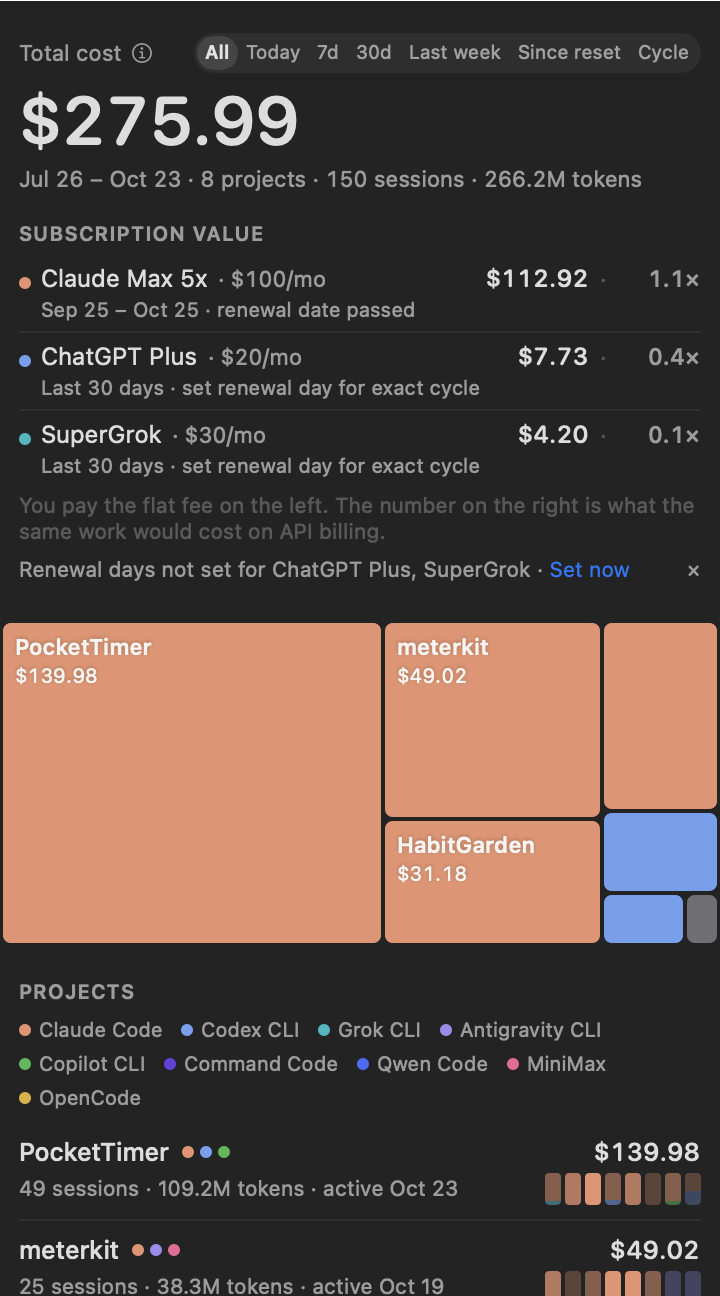
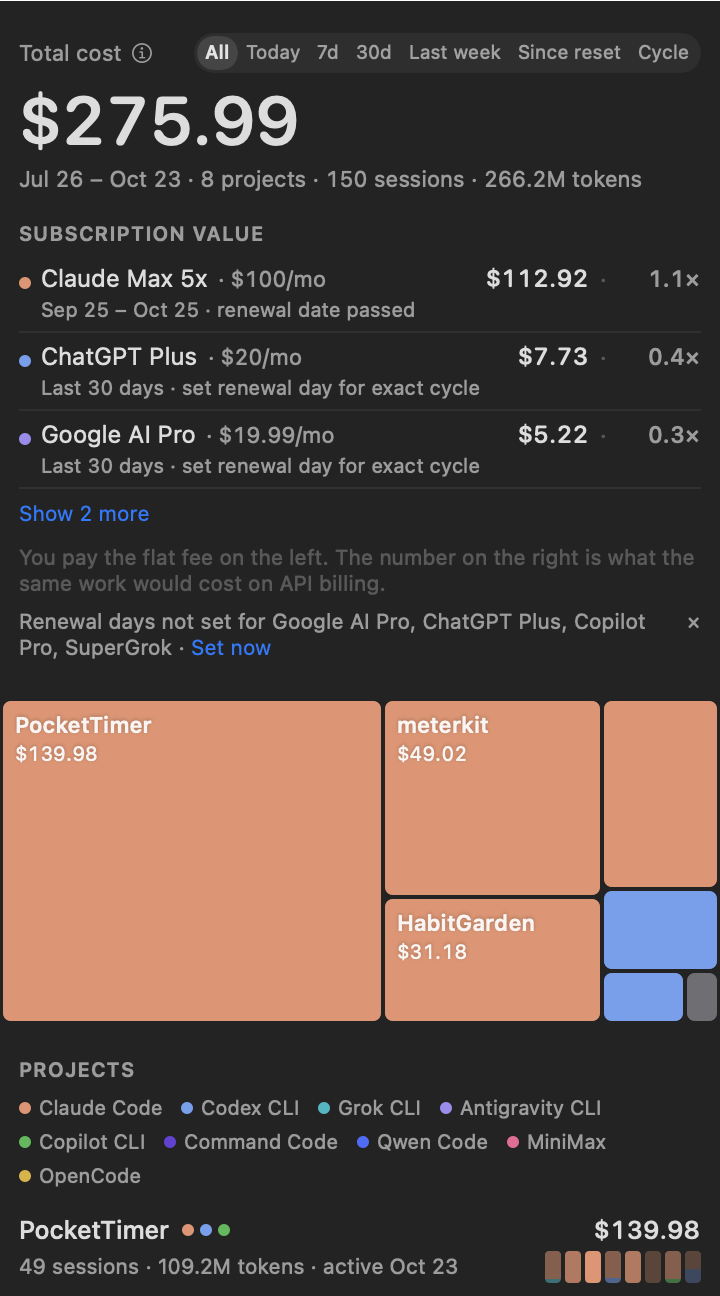
docs: README and screenshots for 0.3.3

diff --git a/ui/Tests/KanjoTests/SubscriptionTests.swift b/ui/Tests/KanjoTests/SubscriptionTests.swift
@@ -273,7 +273,7 @@ final class SubscriptionTests: KanjoTestCase {
         let filtered = RangeEngine.filtered(r, range: RangeEngine.spec(.billingCycle, report: r, now: now)) {
             dominantAgent($0.byAgent)?.agent ?? $0.byAgent.first?.agent ?? "unknown"
         }
-        for agent in ["claude", "codex", "grok"] {
+        for agent in ["claude", "codex", "grok", "antigravity", "copilot"] {
             let fromProjects = filtered.projects.reduce(0.0) { acc, p in
                 acc + (p.byAgent.first { $0.agent == agent }?.cost ?? 0)
             }
@@ -283,11 +283,11 @@ final class SubscriptionTests: KanjoTestCase {
             XCTAssertEqual(usage.total(for: agent), fromProjects + fromBuckets, accuracy: 0.01, agent)
             XCTAssertGreaterThan(usage.total(for: agent), 0, agent)
         }
-        XCTAssertEqual(usage.total(for: "antigravity"), 0)
+        XCTAssertEqual(usage.total(for: "qwen"), 0)
 
         let rows = SubscriptionValue.rows(of: r, now: now)
         XCTAssertEqual(rows.map(\.agent), rows.sorted { $0.usage > $1.usage }.map(\.agent))
-        XCTAssertEqual(Set(rows.map(\.agent)), ["claude", "codex", "grok"])
+        XCTAssertEqual(Set(rows.map(\.agent)), ["claude", "codex", "grok", "antigravity", "copilot"])
         for row in rows {
             let price = r.subscriptions?[row.agent]?.monthlyPriceUsd
             XCTAssertEqual(row.multiplier, SubscriptionValue.multiplier(usage: row.usage, monthlyPriceUsd: price))

diff --git a/ui/Sources/Kanjo/Views/OverviewView.swift b/ui/Sources/Kanjo/Views/OverviewView.swift
@@ -397,7 +397,8 @@ private struct SubscriptionValueCard: View {
         let defaultRows = SubscriptionValue.rows(of: report)
         let order = SubscriptionOrder.parse(subscriptionOrderRaw)
         let orderedRows = SubscriptionOrder.apply(order: order, to: defaultRows)
-        let visibleRows = SubscriptionOrder.visible(orderedRows, expanded: isExpanded, limit: 3)
+        let autoExpandForPinned = pinnedQuotaAgent != nil && orderedRows.contains(where: { $0.agent == pinnedQuotaAgent })
+        let visibleRows = SubscriptionOrder.visible(orderedRows, expanded: isExpanded || autoExpandForPinned, limit: 3)
 
         return PanelSection(L10n.tr("overview.section.subscription_value"), flat: true) {
             VStack(alignment: .leading, spacing: 0) {

diff --git a/ui/fixtures/generate_sample.py b/ui/fixtures/generate_sample.py
@@ -268,34 +268,70 @@ totals = {"cost": round(sum(p["cost"] for p in projects) + buckets["unattributed
           "sessions": sum(p["sessions"] for p in projects) + buckets["unattributed"]["sessions"] + buckets["excluded"]["sessions"],
           "first_active": min(all_days), "last_active": max(all_days)}
 
-# 额度窗口：claude / codex / grok 有，antigravity 没有 → UI 的「Since reset」下 antigravity 不计入。
+# 额度窗口：claude / codex / grok / antigravity 有 live 来源。
+# 相对当前时间动态计算重置时间，确保截图时各窗口处于进行中状态并展示倒计时。
+now_live = datetime.now(timezone.utc)
+claude_weekly = (now_live + timedelta(days=2, hours=14)).strftime("%Y-%m-%dT%H:%M:%SZ")
+claude_5h = (now_live + timedelta(hours=1, minutes=51)).strftime("%Y-%m-%dT%H:%M:%SZ")
+codex_weekly = (now_live + timedelta(days=3, hours=8)).strftime("%Y-%m-%dT%H:%M:%SZ")
+codex_5h = (now_live + timedelta(hours=3, minutes=20)).strftime("%Y-%m-%dT%H:%M:%SZ")
+grok_weekly = (now_live + timedelta(days=4, hours=2)).strftime("%Y-%m-%dT%H:%M:%SZ")
+agy_weekly = (now_live + timedelta(days=3, hours=10)).strftime("%Y-%m-%dT%H:%M:%SZ")
+agy_5h = (now_live + timedelta(hours=2, minutes=30)).strftime("%Y-%m-%dT%H:%M:%SZ")
+agy_3p_5h = (now_live + timedelta(hours=3, minutes=45)).strftime("%Y-%m-%dT%H:%M:%SZ")
+
 quota_windows = {
     "claude": {
-        "weekly_resets_at": "2026-10-27T10:00:00Z",
+        "weekly_resets_at": claude_weekly,
         "weekly_window_hours": 168,
         "weekly_used_percent": 57.0,
-        "five_hour_resets_at": "2026-10-23T04:30:00Z",
+        "five_hour_resets_at": claude_5h,
         "five_hour_window_hours": 5,
         "five_hour_used_percent": 13.0,
-        "source": "tokei",
+        "source": "live",
     },
     "codex": {
-        "weekly_resets_at": "2026-10-28T08:00:00Z",
+        "weekly_resets_at": codex_weekly,
         "weekly_window_hours": 168,
         "weekly_used_percent": 38.0,
-        "five_hour_resets_at": "2026-10-23T05:00:00Z",
+        "five_hour_resets_at": codex_5h,
         "five_hour_window_hours": 5,
         "five_hour_used_percent": 18.0,
-        "source": "manual",
+        "source": "live",
     },
     "grok": {
-        "weekly_resets_at": "2026-10-27T05:00:00Z",
+        "weekly_resets_at": grok_weekly,
         "weekly_window_hours": 168,
         "weekly_used_percent": 42.0,
         "five_hour_resets_at": None,
         "five_hour_window_hours": None,
         "five_hour_used_percent": None,
-        "source": "tokei",
+        "source": "live",
+    },
+    "antigravity": {
+        "weekly_resets_at": agy_weekly,
+        "weekly_window_hours": 168,
+        "weekly_used_percent": 61.2,
+        "five_hour_resets_at": agy_5h,
+        "five_hour_window_hours": 5,
+        "five_hour_used_percent": 18.5,
+        "source": "live",
+        "extra_windows": [
+            {
+                "id": "antigravity-3p-weekly",
+                "title": "Claude/GPT 周",
+                "used_percent": 24.0,
+                "resets_at": agy_weekly,
+                "window_hours": 168,
+            },
+            {
+                "id": "antigravity-3p-5h",
+                "title": "Claude/GPT 5h",
+                "used_percent": 50.0,
+                "resets_at": agy_3p_5h,
+                "window_hours": 5,
+            },
+        ],
     },
 }
 
@@ -325,15 +361,14 @@ def cycle_bounds(anchor_day, now=NOW):
     end_y, end_m = add_month(year, month)
     return iso(year, month, anchor_day), iso(end_y, end_m, anchor_day)
 
-# 订阅：claude / codex / grok 有，antigravity 没有 → UI 的「Billing cycle」下 antigravity 不计入。
-# Codex / Grok 未知真实续费日，用 generated_at 结束的滚动 30 天演示设置引导。
+# 订阅：claude / codex / grok / antigravity / copilot（共 5 个，触发 Subscription value 折叠卡展开）。
+# Codex / Grok / Antigravity / Copilot 未知真实续费日，用 generated_at 结束的滚动 30 天演示设置引导。
 # 账期按 anchor_day 在 Asia/Shanghai 的 00:00 折算（报告 generated_at 落在 10 月 23 日）。
 claude_start, claude_end = cycle_bounds(25)
 generated_at = datetime(2026, 10, 23, 2, tzinfo=timezone.utc)
-codex_start = (generated_at - timedelta(days=30)).strftime("%Y-%m-%dT%H:%M:%SZ")
-codex_end = generated_at.strftime("%Y-%m-%dT%H:%M:%SZ")
-grok_start = (generated_at - timedelta(days=30)).strftime("%Y-%m-%dT%H:%M:%SZ")
-grok_end = generated_at.strftime("%Y-%m-%dT%H:%M:%SZ")
+rolling_start = (generated_at - timedelta(days=30)).strftime("%Y-%m-%dT%H:%M:%SZ")
+rolling_end = generated_at.strftime("%Y-%m-%dT%H:%M:%SZ")
+codex_start = rolling_start
 subscriptions = {
     "claude": {
         "plan": "max_5x", "plan_label": "Claude Max 5x", "monthly_price_usd": 100.0,
@@ -342,13 +377,23 @@ subscriptions = {
     },
     "codex": {
         "plan": "plus", "plan_label": "ChatGPT Plus", "monthly_price_usd": 20.0,
-        "cycle_start": codex_start, "cycle_end": codex_end, "anchor_day": None,
+        "cycle_start": rolling_start, "cycle_end": rolling_end, "anchor_day": None,
+        "cycle_source": "rolling_30d", "extra_usage_enabled": False, "source": "detected",
+    },
+    "antigravity": {
+        "plan": "google_ai_pro", "plan_label": "Google AI Pro", "monthly_price_usd": 19.99,
+        "cycle_start": rolling_start, "cycle_end": rolling_end, "anchor_day": None,
         "cycle_source": "rolling_30d", "extra_usage_enabled": False, "source": "detected",
     },
     "grok": {
         "plan": "supergrok", "plan_label": "SuperGrok", "monthly_price_usd": 30.0,
-        "cycle_start": grok_start, "cycle_end": grok_end, "anchor_day": None,
+        "cycle_start": rolling_start, "cycle_end": rolling_end, "anchor_day": None,
         "cycle_source": "rolling_30d", "extra_usage_enabled": False, "source": "detected",
+    },
+    "copilot": {
+        "plan": "pro", "plan_label": "Copilot Pro", "monthly_price_usd": 10.0,
+        "cycle_start": rolling_start, "cycle_end": rolling_end, "anchor_day": None,
+        "cycle_source": "rolling_30d", "extra_usage_enabled": False, "source": "manual",
     },
 }
 out = {"schema_version": 1, "generated_at": generated_at.strftime("%Y-%m-%dT%H:%M:%SZ"), "generated_by": "generate_sample.py",
@@ -374,7 +419,11 @@ for p in projects:
         assert set(d["by_agent"]) <= {a["agent"] for a in p["by_agent"]}, (p["id"], d["day"])
         assert set(d["by_agent_tokens"]) == set(d["by_agent"]), (p["id"], d["day"])
         assert sum(d["by_agent_tokens"].values()) == d["tokens"], (p["id"], d["day"])
-assert set(subscriptions) == {"claude", "codex", "grok"}
+assert set(subscriptions) == {"claude", "codex", "antigravity", "grok", "copilot"}
+assert subscriptions["antigravity"]["plan"] == "google_ai_pro"
+assert subscriptions["antigravity"]["monthly_price_usd"] == 19.99
+assert subscriptions["copilot"]["plan"] == "pro"
+assert subscriptions["copilot"]["monthly_price_usd"] == 10.0
 assert subscriptions["claude"]["plan"] == "max_5x"
 assert subscriptions["claude"]["monthly_price_usd"] == 100.0
 assert subscriptions["claude"]["anchor_day"] == 25

diff --git a/README.md b/README.md
@@ -35,7 +35,8 @@ Kanjo scans the local logs of your AI coding agents once, attributes every sessi
 
 - **A treemap of your repos by cost.** One glance tells you where the money went.
 - **An 8-week burn strip per repo**, colored by agent across all 9 supported tools.
-- **Subscription value for all agents.** Your plan's flat fee next to what this billing cycle's work would have cost on API billing, and the multiplier. Detected automatically for Claude, Codex, and Grok, or configured manually in Settings for any agent. Hover a plan to see its 5-hour and weekly quota: how much is used and when each window resets. Hover a treemap tile for its per-agent cost and tokens.
+- **Subscription value for all agents.** Your plan's flat fee next to what this billing cycle's work would have cost on API billing, and the multiplier. Shows top 3 rows by default with a "Show N more" collapse toggle, and rows can be dragged to choose which 3 stay on top. Detected automatically for Claude, Codex, Grok, and Antigravity, or configured manually in Settings for any agent. Hover a plan to see its 5-hour and weekly quota: how much is used and when each window resets (Antigravity also includes Claude/GPT extra windows; Command Code has no quota bar). Hover a treemap tile for its per-agent cost and tokens.
+- **Standalone quota fetching.** Kanjo is fully standalone — it reads local agent logs and fetches quota itself directly using local credentials (Antigravity via local language server on 127.0.0.1, ChatGPT, Claude, and Grok). Read-only, credentials stay in memory only, nothing is uploaded, and `KANJO_NO_NETWORK=1` (or `no_network = true` in config) disables all network requests. Tokei caches serve as an optional fallback only.
 - **Time ranges**: all time, Today, 7 days, 30 days, last week, *since your last quota reset*, or *this billing cycle*.
 - **Menu bar in cost or tokens mode.** Displays either spend (`$`) or total tokens with compact formatting and range suffixes.
 - **Languages.** Fully localized into English, 简体中文, and Français, with localized token units (`k`/`M`/`B`, `万`/`亿`, `k`/`M`/`Md`).
@@ -46,11 +47,15 @@ Kanjo scans the local logs of your AI coding agents once, attributes every sessi
 
 <p align="center">
   <img src="docs/screenshots/quota-hover-claude.png" width="360" alt="Quota card on hover: Claude Max 5-hour and weekly windows">
-  <img src="docs/screenshots/mosaic-hover.png" width="360" alt="Treemap hover card: per-agent cost and tokens">
+  <img src="docs/screenshots/quota-hover-antigravity.png" width="360" alt="Quota card on hover: Antigravity Google AI Pro with Gemini and Claude/GPT extra windows">
 </p>
 
 <p align="center">
+  <img src="docs/screenshots/mosaic-hover.png" width="360" alt="Treemap hover card: per-agent cost and tokens">
   <img src="docs/screenshots/detail-light.png" width="360" alt="Project detail">
+</p>
+
+<p align="center">
   <img src="docs/screenshots/disk-light.png" width="360" alt="Disk page">
 </p>
 
@@ -70,7 +75,7 @@ Every number is an **API-equivalent cost**: tokens × public API price. It is wh
 | OpenCode | `~/.local/share/opencode/opencode.db` | files touched, directory / worktree |
 | Copilot CLI | `~/.copilot/session-state/**`, `~/.copilot/session-store.db` | files touched, cwd |
 
-MiniMax and OpenCode shared sessions are identified and counted only once. Everything runs locally. Nothing is uploaded. Kanjo reads token counts, paths and timestamps; it never stores conversation text.
+Antigravity sessions are detected automatically from both `~/.gemini/antigravity-cli` and `~/.gemini/antigravity` (Antigravity 2.0 app). MiniMax and OpenCode shared sessions are identified and counted only once. Everything runs locally. Nothing is uploaded. Kanjo reads token counts, paths and timestamps; it never stores conversation text.
 
 ## How attribution works
 
@@ -182,7 +187,8 @@ Kanjo 扫一遍本机 AI 编程工具的日志，把每个会话归到一个 git
 
 - **按花费的 treemap**：一眼看出钱去哪了。
 - **每个 repo 一条 8 周燃烧热力条**，按 9 种 agent 分色，每周花费构成一目了然。
-- **所有 agent 的订阅价值**：左边是你实际付的月费，右边是本账期的活按 API 计费要多少，以及倍数。Claude、Codex、Grok 自动识别，其他 agent 均可在设置中手动配置。
+- **所有 agent 的订阅价值**：左边是你实际付的月费，右边是本账期的活按 API 计费要多少，以及倍数。默认展示前 3 行，提供“展开其余 N 项”折叠切换，并支持拖拽自定义前 3 项排序。Claude、Codex、Grok 和 Antigravity 自动识别，其他 agent 均可在设置中手动配置。悬停可查看 5 小时与周额度窗口及重置倒计时（Antigravity 额外展示 Claude/GPT 附加窗口；Command Code 无额度条）。
+- **完全独立取数**：直接从本机日志与本地凭据获取额度（Antigravity 走本地 127.0.0.1 语言服务、ChatGPT、Claude、Grok），凭据仅留存内存、绝不上传，可设 `KANJO_NO_NETWORK=1` 禁用联网。Tokei 仅作为可选后备。Antigravity 同时自动识别 `~/.gemini/antigravity-cli` 与 `~/.gemini/antigravity`。
 - **时间范围**：全部、**今天**、7 天、30 天、上周、自上次额度重置以来、或本账期。
 - **菜单栏金额与 Token 模式**：可在设置中切换显示金额或 Token 数，带紧凑进位与时间范围后缀。
 - **多语言界面**：原生支持 English、简体中文与 Français，以及本地化的 Token 计数单位（万/亿、k/M/B、k/M/Md）。
@@ -207,7 +213,7 @@ Kanjo 扫一遍本机 AI 编程工具的日志，把每个会话归到一个 git
 | OpenCode | `~/.local/share/opencode/opencode.db` | 碰过的文件、目录／worktree |
 | Copilot CLI | `~/.copilot/session-state/**`、`~/.copilot/session-store.db` | 碰过的文件、当前工作目录 |
 
-MiniMax 与 OpenCode 的共享会话仅计一次。全部本地运行，不上传任何东西，只读 token 数、路径和时间戳，不存对话内容。
+Antigravity 会话自动识别 `~/.gemini/antigravity-cli` 与 `~/.gemini/antigravity`（Antigravity 2.0 app）。MiniMax 与 OpenCode 的共享会话仅计一次。全部本地运行，不上传任何东西，只读 token 数、路径和时间戳，不存对话内容。
 
 ### 归属规则
 

diff --git a/ui/README.md b/ui/README.md
@@ -116,7 +116,7 @@ Definitions follow CONTRACT.md §6.1; the engine is `KanjoCore/TimeRange.swift` 
 - The menu bar amount follows the range too: the filtered total with a tiny prefix — `7d $…`, `30d $…`,
   `wk $…` (Last week), `rst $…` (Since reset), `cyc $…` (Billing cycle) — and the plain report total for All.
 - Settings → **Quota reset** lists each agent's next weekly reset, its window start and the source
-  (`tokei` / `manual` / `none`); reset times can be set by hand in Settings or in `~/.config/kanjo/attribution.toml`.
+  (`live` / `tokei` / `manual` / `none`); reset times can be set by hand in Settings or in `~/.config/kanjo/attribution.toml`.
 
 Screenshot tip: `-timeRange days7` (or `all`, `today`, `days30`, `lastWeek`, `sinceReset`, `billingCycle`) presets the range for one launch.
 Preferences can be preset for one launch without persisting them, through the
